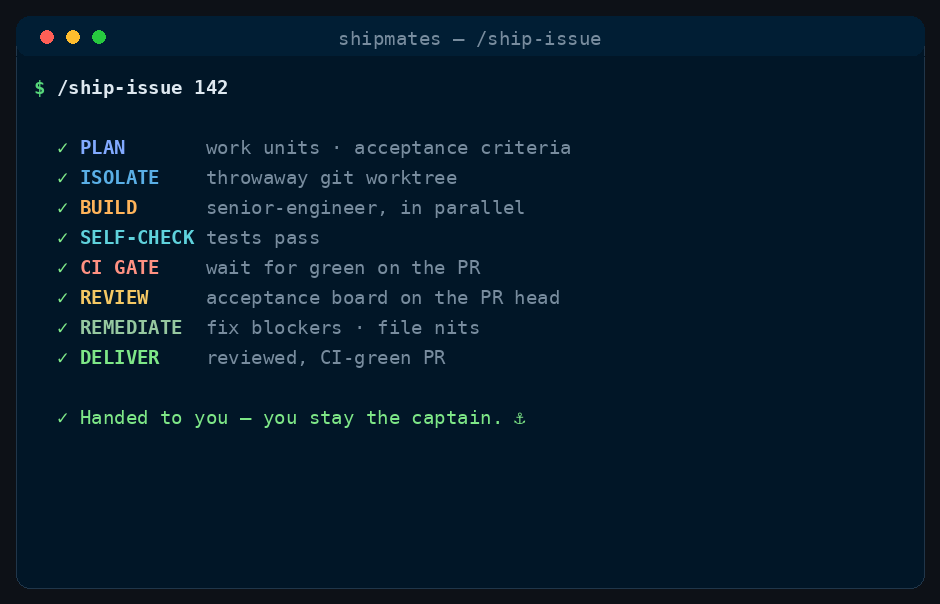
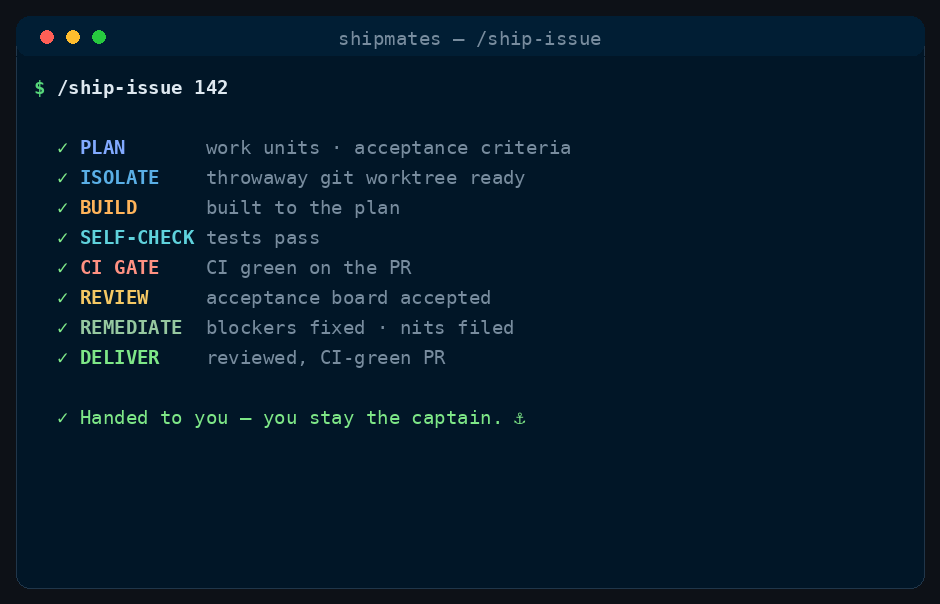
fix(site): tighten demo stage copy and drop false Closes on #52
Done-lines read as completed states; document that command-reel accents
may diverge from the flagship ISOLATE sea-blue without forcing a full
command-demo regen.

diff --git a/tools/gen_demo_gif.py b/tools/gen_demo_gif.py
@@ -53,12 +53,12 @@ STAGE_COLORS = {
 # (label, running detail, done detail)
 STAGES = [
     ("PLAN",       "reading the issue + your docs …",   "work units · acceptance criteria"),
-    ("ISOLATE",    "creating a throwaway git worktree …","throwaway git worktree"),
-    ("BUILD",      "senior-engineer, in parallel …",    "senior-engineer, in parallel"),
+    ("ISOLATE",    "creating a throwaway git worktree …","throwaway git worktree ready"),
+    ("BUILD",      "senior-engineer, in parallel …",    "built to the plan"),
     ("SELF-CHECK", "sdet runs the real suite …",        "tests pass"),
-    ("CI GATE",    "waiting for CI to go green …",       "wait for green on the PR"),
-    ("REVIEW",     "board reviews the PR head …",        "acceptance board on the PR head"),
-    ("REMEDIATE",  "apply fixes, re-review …",           "fix blockers · file nits"),
+    ("CI GATE",    "waiting for CI to go green …",       "CI green on the PR"),
+    ("REVIEW",     "board reviews the PR head …",        "acceptance board accepted"),
+    ("REMEDIATE",  "apply fixes, re-review …",           "blockers fixed · nits filed"),
     ("DELIVER",    "",                                        "reviewed, CI-green PR"),
 ]
 

diff --git a/tools/demo_terminal.py b/tools/demo_terminal.py
@@ -38,8 +38,10 @@ GREEN  = (126, 231, 135)   # ✓ / success / cargo status word
 PROMPT = (86, 214, 122)    # $ prompt
 CURSOR = (200, 220, 235)
 
-# Stage accent colours, shared with gen_demo_gif.py's STAGE_COLORS so a command
-# reel that reuses a stage name paints it the same hue the /ship-issue reel does.
+# Stage accent colours — same *slot order* as gen_demo_gif.py's STAGE_COLORS so
+# command reels stay coherent. Exact RGB may diverge when the flagship reel
+# tunes a stage (e.g. ISOLATE sea-blue); regenerate command demos if you need
+# pixel lockstep again.
 BLUE   = (130, 170, 255)
 PURPLE = (170, 150, 255)
 ORANGE = (255, 180, 90)
